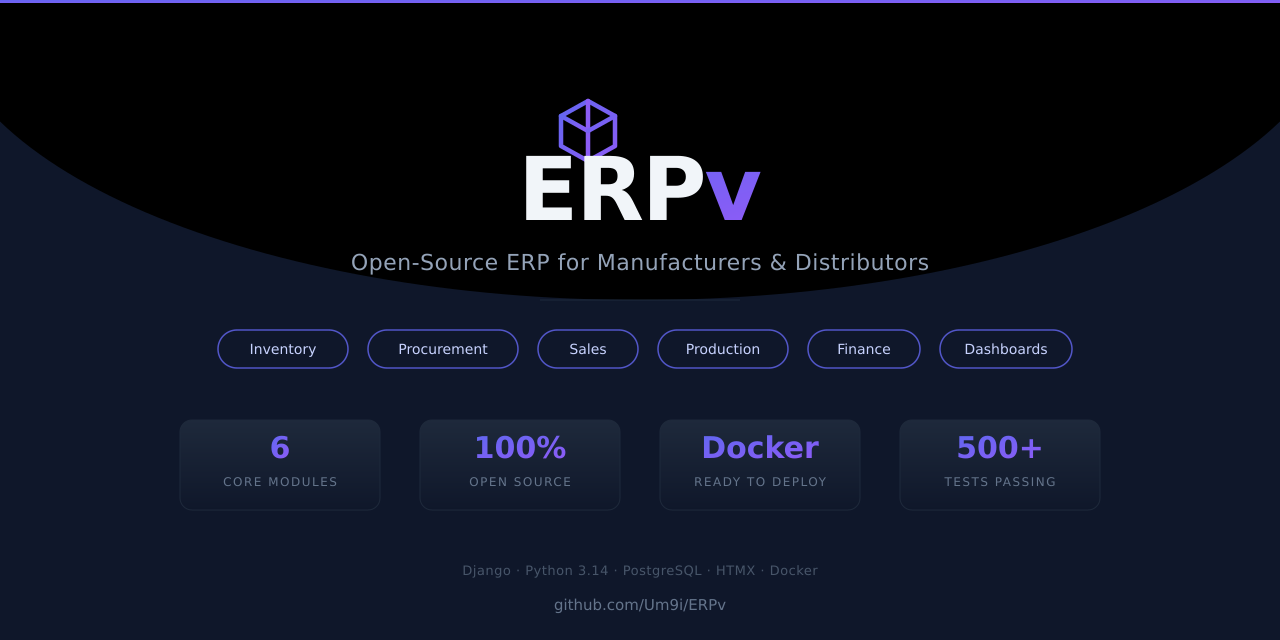
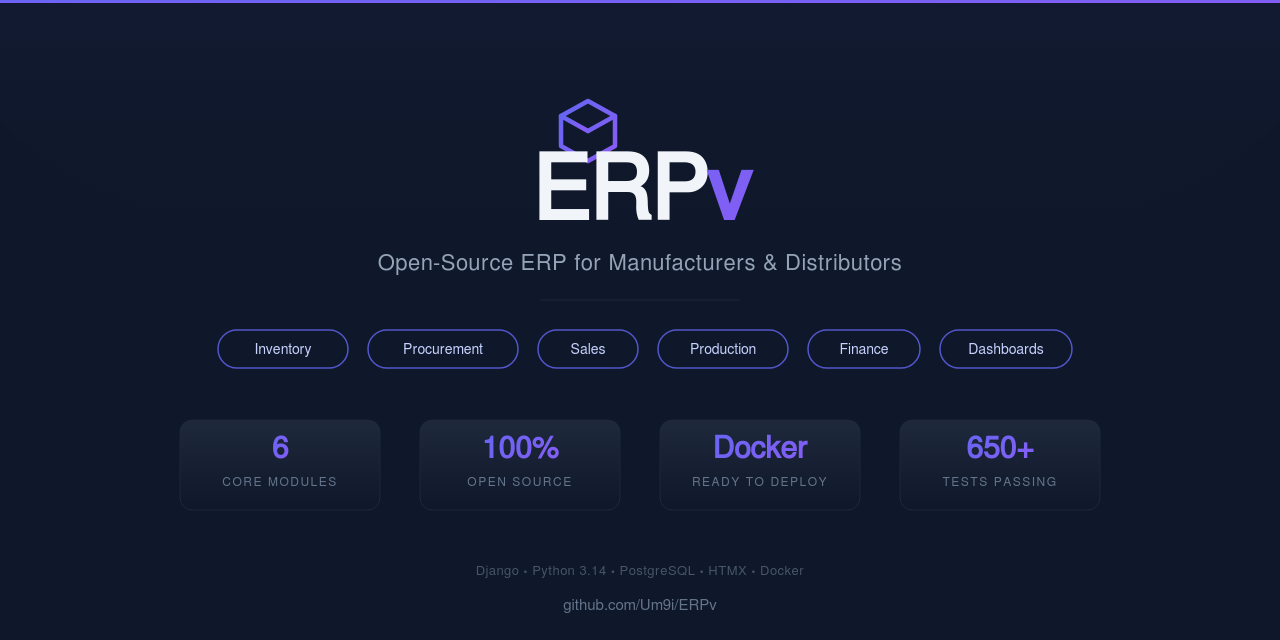
feat(readme, home): update test count to reflect current passing tests in README and home page

diff --git a/templates/home.html b/templates/home.html
@@ -45,7 +45,7 @@
                 <div class="metric-label">Ready to Deploy</div>
             </div>
             <div class="col-6 col-md-3">
-                <div class="metric-value">659</div>
+                <div class="metric-value">650+</div>
                 <div class="metric-label">Tests Passing</div>
             </div>
         </div>

diff --git a/README.md b/README.md
@@ -8,7 +8,7 @@
 
 [![Python 3.14](https://img.shields.io/badge/python-3.14-blue.svg)](https://www.python.org/downloads/)
 [![Django 6.0](https://img.shields.io/badge/django-6.0-green.svg)](https://www.djangoproject.com/)
-[![Tests](https://img.shields.io/badge/tests-659%20passing-brightgreen.svg)](#testing)
+[![Tests](https://img.shields.io/badge/tests-650%2B%20passing-brightgreen.svg)](#testing)
 [![Coverage](https://img.shields.io/badge/coverage-86%25-brightgreen.svg)](#testing)
 [![Linting: ruff](https://img.shields.io/badge/linting-ruff-261230.svg)](https://github.com/astral-sh/ruff)
 [![License: MIT](https://img.shields.io/badge/license-MIT-blue.svg)](LICENSE)
@@ -69,7 +69,7 @@ ERPv is a full-featured ERP web application designed for small-to-medium manufac
 | QR Codes | python-qrcode |
 | Static Files | WhiteNoise |
 | Server | Gunicorn |
-| Testing | pytest, pytest-xdist, factory_boy — 659 tests, 86% coverage |
+| Testing | pytest, pytest-xdist, factory_boy — 650+ tests, 86% coverage |
 | Code Quality | ruff, mypy, bandit, pip-audit, pre-commit |
 
 ## Quick Start
@@ -125,7 +125,7 @@ Without it, the app falls back to a local SQLite file — fine for development.
 Tests run with pytest and include coverage reporting:
 
 ```bash
-pytest                        # run all 659 tests
+pytest                        # run all 650+ tests
 pytest -m unit                # unit tests only
 pytest -m integration         # integration tests only
 pytest -m e2e                 # end-to-end workflow tests
